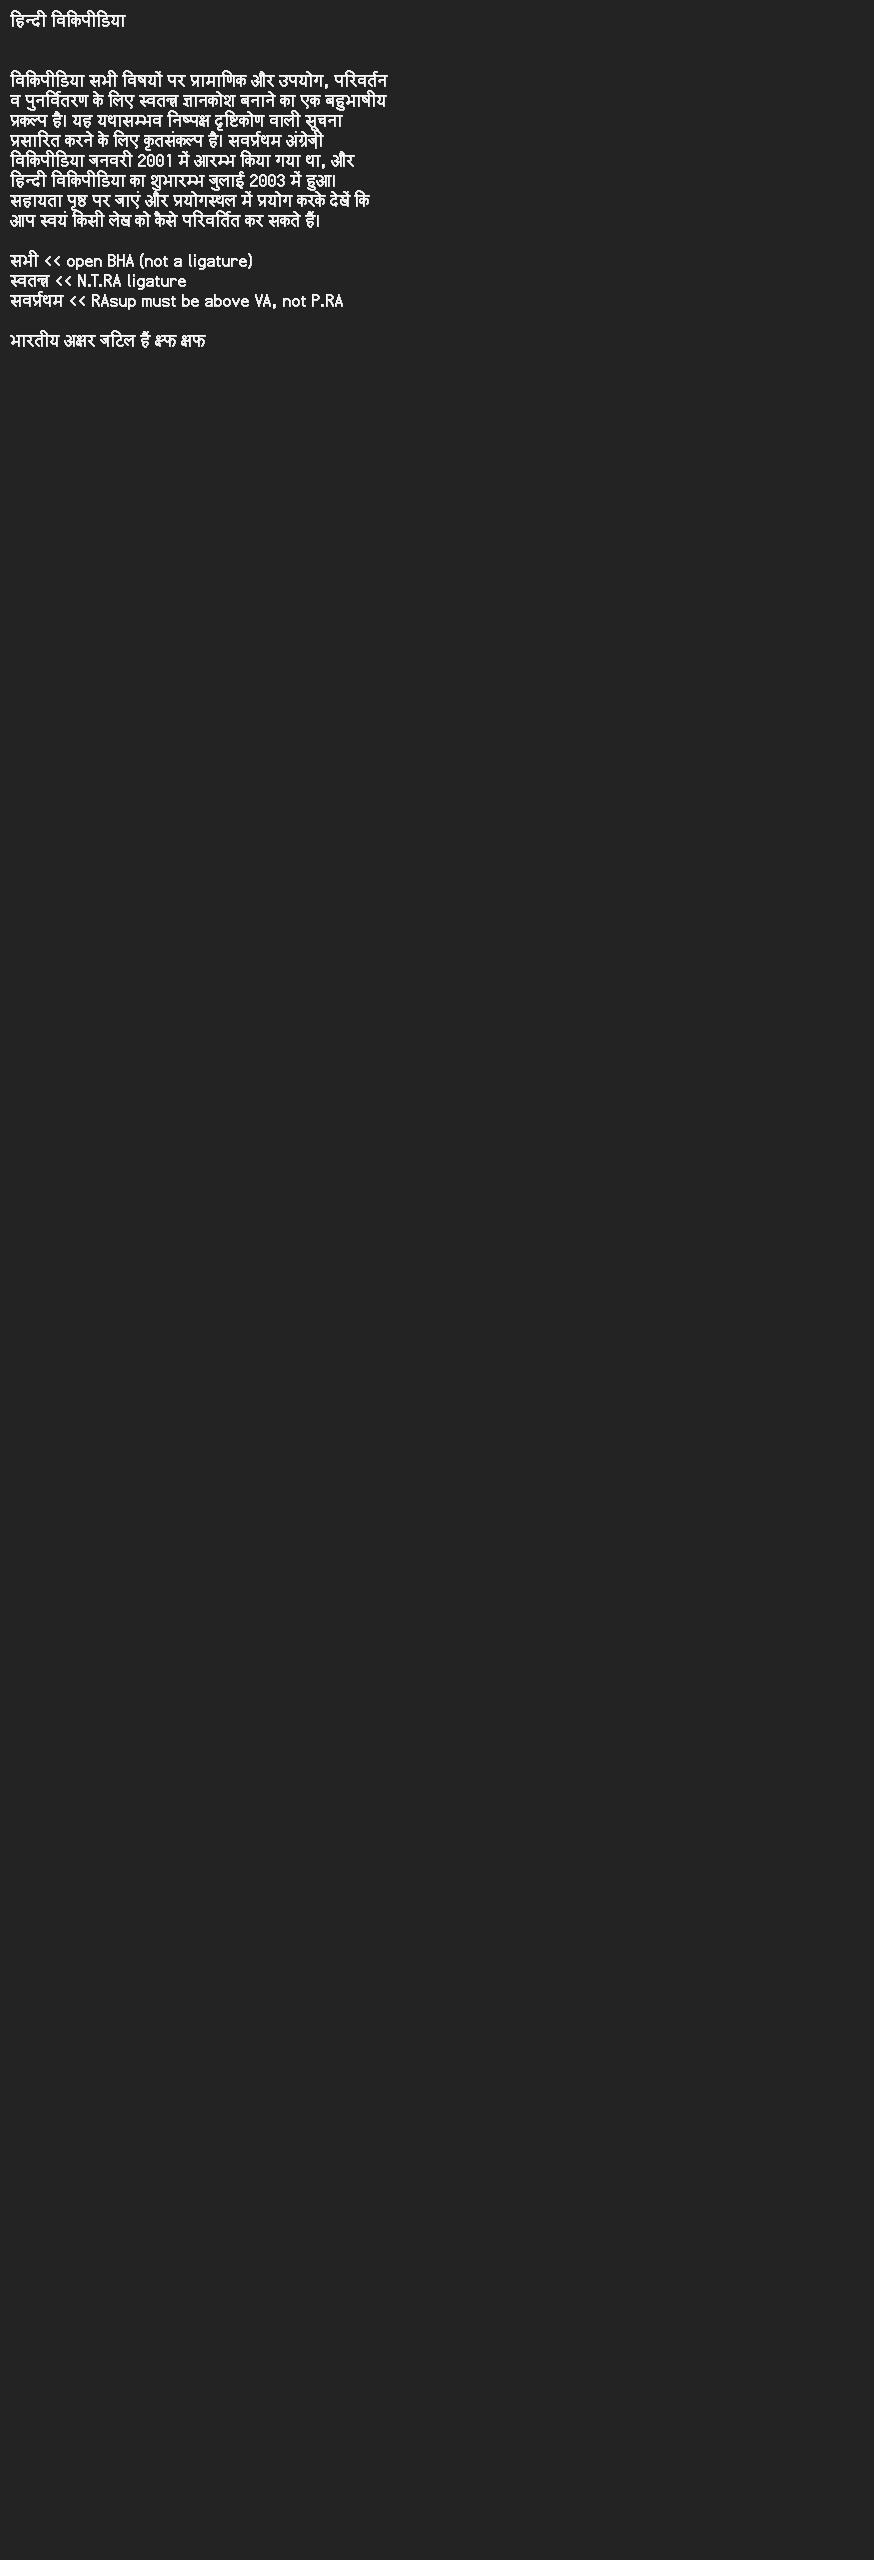
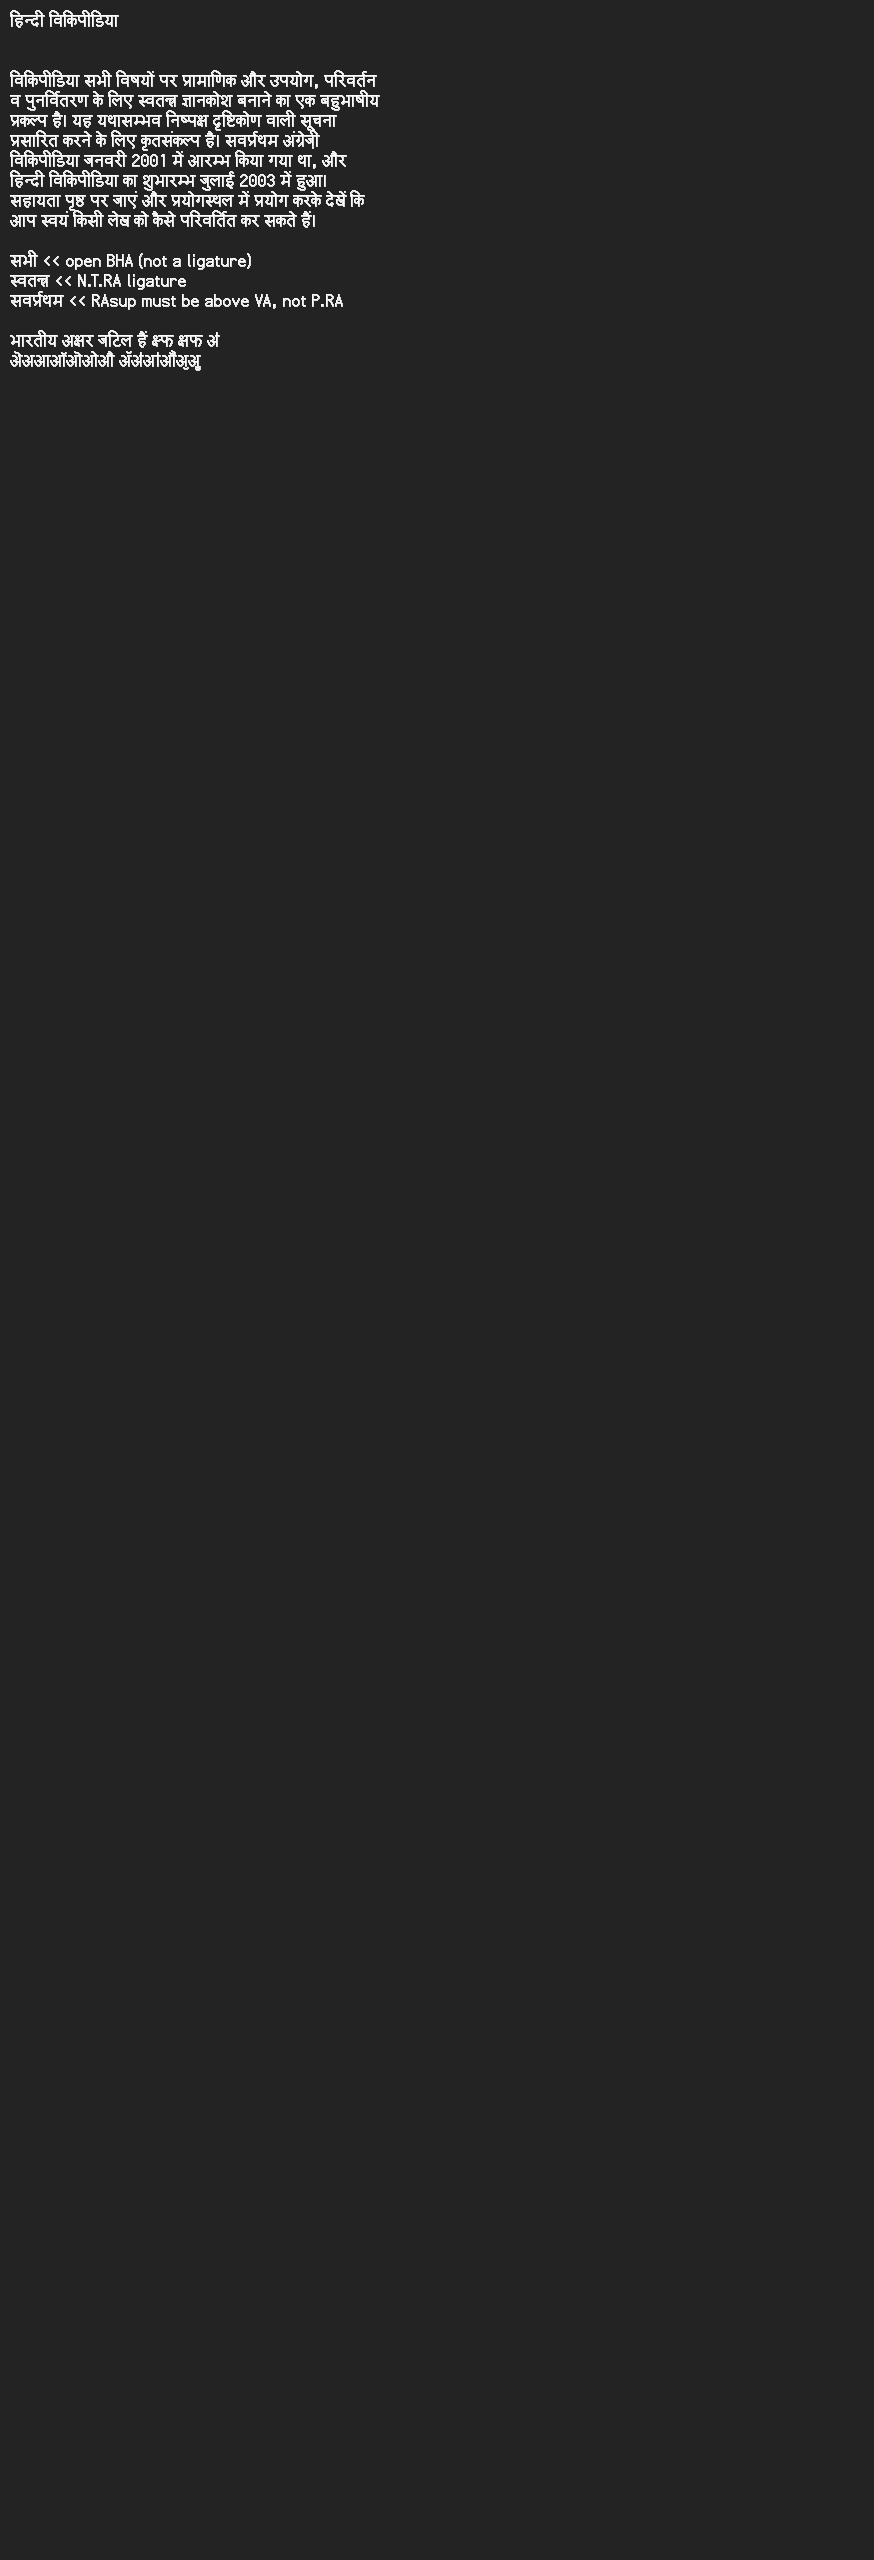
devanagari narrower vowels

Changed region(s): [[0.0309, 0.0, 0.4325, 0.0938], [0.0309, 0.125, 0.2471, 0.1562]]

diff --git a/src/net/torvald/terrarumsansbitmap/gdx/TerrarumSansBitmap.kt b/src/net/torvald/terrarumsansbitmap/gdx/TerrarumSansBitmap.kt
@@ -1213,11 +1213,11 @@ class TerrarumSansBitmap(
                 seq.add(c)
                 changeRaStatus(1)
             }
-            else if ((yankedDevanagariRaStatus[1] == 1 || yankedDevanagariRaStatus[1] == 3) && devanagariVerbs.contains(c)) {
+            else if ((yankedDevanagariRaStatus[1] == 1 || yankedDevanagariRaStatus[1] == 3) && devanagariVowels.contains(c)) {
                 seq.add(c)
                 changeRaStatus(3)
             }
-//            else if (yankedDevanagariRaStatus == 3 && !devanagariVerbs.contains(c)) {
+//            else if (yankedDevanagariRaStatus == 3 && !devanagariVowels.contains(c)) {
             else if (yankedDevanagariRaStatus[1] > 0 && yankedCharacters.peek().second == DEVANAGARI_RA) { // termination or illegal state for Devanagari RA
                 yankedCharacters.pop()
                 seq.add(DEVANAGARI_RA_SUPER)
@@ -1289,9 +1289,9 @@ class TerrarumSansBitmap(
         i = 0
         while (i <= seq.lastIndex) {
             if (i > 0 && (glyphProps[seq[i]] ?: nullProp).alignWhere == GlyphProps.ALIGN_BEFORE) {
-                val verb = seq[i]
-//                dbgprn("Verb realign: index $i, ${verb.charInfo()}")
-                if (isDevanagari(verb)) {
+                val vowel = seq[i]
+//                dbgprn("Vowel realign: index $i, ${vowel.charInfo()}")
+                if (isDevanagari(vowel)) {
                     // scan for the consonant cluster backwards
                     // [not ligature glyphs] h h h h h c l r
                     var scanCounter = 1
@@ -1303,10 +1303,10 @@ class TerrarumSansBitmap(
                             scanCounter += 1
                         else
                             break
-                    } // scanCounter points at the terminator. the left-verb must be placed at (i - scanCounter + 1)
+                    } // scanCounter points at the terminator. the left-vowel must be placed at (i - scanCounter + 1)
 
                     seq.removeAt(i)
-                    seq.add(i - scanCounter + 1, verb)
+                    seq.add(i - scanCounter + 1, vowel)
                 }
                 else {
                     val t = seq[i - 1]
@@ -1781,7 +1781,7 @@ class TerrarumSansBitmap(
         private val TAMIL_SHRII = 0xF00EE
 
         private val devanagariConsonants = ((0x0915..0x0939) + (0x0958..0x095F) + (0x0978..0x097F) + (0xF0105..0xF01FF)).toHashSet()
-        private val devanagariVerbs = ((0x093A..0x093C) + (0x093E..0x094C) + (0x094E..0x094F)).toHashSet()
+        private val devanagariVowels = ((0x093A..0x093C) + (0x093E..0x094C) + (0x094E..0x094F)).toHashSet()
 
         private val devanagariBaseConsonants = 0x0915..0x0939
         private val devanagariBaseConsonantsWithNukta = 0x0958..0x095F

diff --git a/src/net/torvald/terrarumsansbitmap/GlyphProps.kt b/src/net/torvald/terrarumsansbitmap/GlyphProps.kt
@@ -116,7 +116,7 @@ data class GlyphProps(
         if (stackWhere == STACK_BEFORE_N_AFTER)
             2
         else if (directiveOpcode in 0b10000_000..0b10000_111)
-            directiveOpcode and 7
+            7
         else 0
 
     fun isPragma(pragma: String) = when (pragma) {
